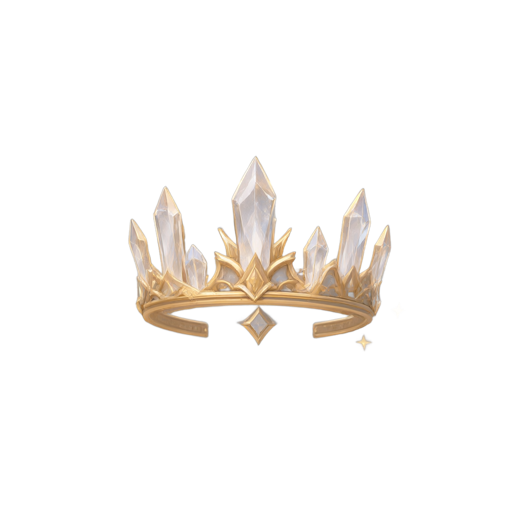
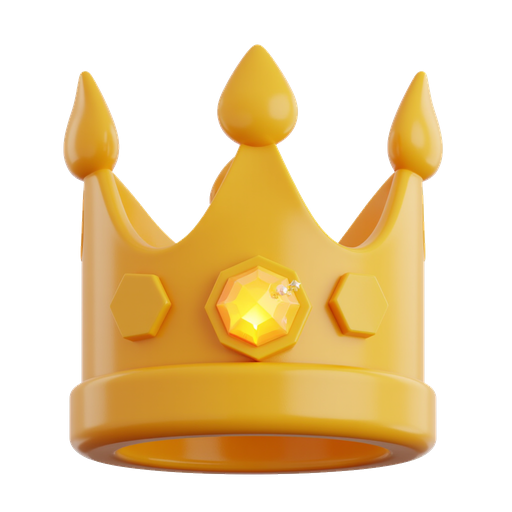
Dragon Island: real necklace/crown fits and PNG face marks
Necklaces (art.js KATMAN.necklace): every necklace was anchored by the
top of its own strap-ends, which are drawn wide (product-shot style,
meant for a human neck/shoulders) - scaled up to the dragon's width,
that put the pendant well down past the throat and onto the belly's
light patch instead of resting at the neck. Re-anchored each one at
the point where the chain narrows into the pendant (measured per
asset) and shrank the scale so only a short drop shows below the jaw,
the way a snug choker would actually sit on this chibi anatomy (no
real exposed neck - the jaw meets the chest almost directly).

Crowns (art.js KATMAN.head): Tiny/Ice/Celestial were regenerated -
- Tiny: was a delicate flat ring shot at a 3/4 angle, essentially
  invisible once placed and scaled on the head. New art is a proper
  small chunky crown in the same style as Bronze/Silver/Golden/King.
- Ice/Celestial: both had a translucent/glowing base band (the models
  rendered them as glass/light rather than metal) that read as a
  floating halo above the head instead of a crown sitting on it, no
  matter how it was positioned. Regenerated both in the same opaque,
  chunky toon style as the crowns that already fit well, using the
  "Sleek 3D Assets 2.0" LoRA. All three go through the 851 Labs
  background remover (clean cutout, no leftover drop-shadow blob - an
  earlier absolute-color-distance mask attempt kept a visible shadow
  patch under the crown) and anchor at their own bottom-centre, same
[…]

diff --git a/games/dragon/art.js b/games/dragon/art.js
@@ -1,6 +1,6 @@
 
-import { palet, FACES } from './data.js?v105';
-import { CONFIG, growthRatio } from './config.js?v105';
+import { palet } from './data.js?v106';
+import { CONFIG, growthRatio } from './config.js?v106';
 
 let uidSayaci = 0;
 
@@ -13,109 +13,6 @@ function ton(hex, miktar) {
     return Math.round(v + (hedef - v) * k);
   };
   return `rgb(${kanal(16)},${kanal(8)},${kanal(0)})`;
-}
-
-export function faceSvg(key) {
-  const f = FACES[key];
-  if (!f || key === 'none' || !f.kind) return '';
-  const c = f.color;
-
-  /* Not: bu koordinatlar eski (3/4 acili) prosedurel ejderha icin
-     ayarlanmisti - onden bakan yeni PNG govdeye gore gozler cok daha
-     ACIKTA (x=~-37/+37, y=-45..-50), kas y=-55..-60, boynuz arasi
-     y=-88..-95, cene/agiz y=-20..-28 (bkz. art.js gecmisindeki DEBUGGRID
-     kalibrasyonu). Asagidaki degerler yanak bandina (gozun disinda/altinda,
-     x=30..46, y=-25..-48) gore yeniden konumlandirildi - eskiden hepsi
-     kas/alin hizasinda VE gozlerin arasinda (x=6..26) kalip yuze hic
-     degmiyordu. */
-
-  if (f.kind === 'scar') {
-    return `
-      <path d="M36 -48 C38 -40 39.5 -32 40 -25" fill="none" stroke="${c}"
-            stroke-width="2.8" stroke-linecap="round" opacity=".95"/>
-      <path d="M33 -42 h7.5 M34.5 -35 h7" stroke="${c}" stroke-width="2"
-            stroke-linecap="round" opacity=".8"/>`;
-  }
-
-  if (f.kind === 'twinScar') {
-    return `
-      <path d="M33 -50 C36 -42 38 -34 39 -27" fill="none" stroke="${c}"
-            stroke-width="2.8" stroke-linecap="round" opacity=".95"/>
-      <path d="M44 -44 C40 -38 36 -33 32 -29" fill="none" stroke="${c}"
-            stroke-width="2.4" stroke-linecap="round" opacity=".85"/>
-      <path d="M-36 -46 C-38 -38 -39.5 -31 -40.5 -25" fill="none" stroke="${c}"
-            stroke-width="2.2" stroke-linecap="round" opacity=".75"/>`;
-  }
-
-  if (f.kind === 'paint') {
-    // Boyanin rengi bazi ejderha tonlarina (orn. varsayilan "ember") cok
-    // yakin dusup govdeyle karisiyordu - koyu bir dis cizgiyle kontrast
-    // ekleniyor, govde rengi ne olursa olsun secilebilsin diye.
-    const yan = (yon) => `
-      <g transform="scale(${yon} 1)">
-        <path d="M29 -36 l7 -3 l-1.5 7 l7 -2 l-2 7" fill="none" stroke="#2a1216"
-              stroke-width="4.2" stroke-linecap="round" stroke-linejoin="round" opacity=".55"/>
-        <path d="M29 -36 l7 -3 l-1.5 7 l7 -2 l-2 7" fill="none" stroke="${c}"
-              stroke-width="2.6" stroke-linecap="round" stroke-linejoin="round" opacity=".95"/>
-      </g>`;
-    return yan(1) + yan(-1);
-  }
-
-  if (f.kind === 'darkMark') {
-    const yan = (yon) => `
-      <g transform="scale(${yon} 1)">
-        <path d="M19 -39 C25 -46 35 -45 39 -36 C35 -29 23 -30 19 -35 Z"
-              fill="${c}" opacity=".5"/>
-        <path d="M33 -26 l-3 7" stroke="${c}" stroke-width="2.4"
-              stroke-linecap="round" opacity=".7"/>
-      </g>`;
-    return yan(1) + yan(-1);
-  }
-
-  if (f.kind === 'flame') {
-    const yan = (yon) => `
-      <g transform="scale(${yon} 1)">
-        <path d="M28 -40 C34 -46 36 -54 33 -62
-                 C39 -56 40 -45 35 -38 C32 -36 29 -37.5 28 -40 Z"
-              fill="${c}" opacity=".92"/>
-        <path d="M30 -42 C33.5 -47 34.5 -51 33 -55 C36.5 -50 36 -44 33 -40 Z"
-              fill="#ffe066" opacity=".8"/>
-      </g>`;
-    return yan(1) + yan(-1);
-  }
-
-  if (f.kind === 'rune') {
-    return `
-      <circle cx="0" cy="-78" r="10" fill="${c}" opacity=".22"/>
-      <path d="M0 -85 v13 M-5 -81 h10 M0 -72 l4 6 h-8 z" fill="none" stroke="${c}"
-            stroke-width="2.4" stroke-linecap="round" stroke-linejoin="round"/>
-      <path d="M-25 -58 l4 4 M25 -58 l-4 4" stroke="${c}" stroke-width="2"
-            stroke-linecap="round" opacity=".7"/>`;
-  }
-
-  if (f.kind === 'demon') {
-    const yan = (yon) => `
-      <g transform="scale(${yon} 1)">
-        <path d="M24 -72 L40 -75 L37 -67 L41 -65 L26 -59 Z" fill="${c}" opacity=".9"/>
-        <path d="M27 -53 L38 -50 L32 -44 Z" fill="${c}" opacity=".75"/>
-        <path d="M21 -42 L28 -40 L24 -36 Z" fill="${c}" opacity=".6"/>
-      </g>`;
-    return `${yan(1)}${yan(-1)}
-      <path d="M0 -86 L4 -77 L0 -73 L-4 -77 Z" fill="${c}" opacity=".9"/>`;
-  }
-
-  return `
-    <circle cx="0" cy="-79" r="12" fill="${c}" opacity=".22"/>
-    <path d="M0 -89 C2 -81 4 -79 12 -77 C4 -75 2 -73 0 -65
-             C-2 -73 -4 -75 -12 -77 C-4 -79 -2 -81 0 -89 Z" fill="${c}"/>
-    <path d="M-29 -69 C-23 -75 -12 -74 -8 -67" fill="none" stroke="${c}"
-          stroke-width="2.4" stroke-linecap="round" opacity=".9"/>
-    <path d="M29 -69 C23 -75 12 -74 8 -67" fill="none" stroke="${c}"
-          stroke-width="2.4" stroke-linecap="round" opacity=".9"/>
-    <path d="M-21 -54 l-3 8 M21 -54 l3 8" stroke="${c}" stroke-width="2.2"
-          stroke-linecap="round" opacity=".8"/>
-    <circle cx="-24" cy="-45" r="2" fill="${c}"/>
-    <circle cx="24" cy="-45" r="2" fill="${c}"/>`;
 }
 
 function yumurtaSvg(level, pal) {
@@ -163,6 +60,13 @@ const GORSEL = {
   tepe: { x: 511, y: 230 },
   yuz: { x: 511, y: 455 },
   boyun: { x: 511, y: 505 },
+
+  /* Yuz ogeleri (kesikler, boya, ruhani isaretler) artik gercek Scenario
+     PNG'leri - alnin ortasina tek basina oturanlar icin "alin", yanaga
+     (goz disi/alti) simetrik oturanlar icin "yanakSag"/"yanakSol". */
+  alin: { x: 511, y: 300 },
+  yanakSag: { x: 655, y: 405 },
+  yanakSol: { x: 367, y: 405 },
 };
 
 const MERKEZ = 92;
@@ -227,8 +131,8 @@ const KATMAN = {
   head: {
     tiny: {
       yol: 'assets/crown-tiny.png',
-      kare: 1024, x0: 200, y0: 384, x1: 824, y1: 660,
-      kok: { x: 512, y: 660 }, en: 0.42,
+      kare: 1024, x0: 117, y0: 137, x1: 904, y1: 879,
+      kok: { x: 510, y: 879 }, en: 0.40,
     },
     bronze: {
       yol: 'assets/crown-bronze.png',
@@ -252,8 +156,8 @@ const KATMAN = {
     },
     ice: {
       yol: 'assets/crown-ice.png',
-      kare: 1024, x0: 238, y0: 298, x1: 796, y1: 682,
-      kok: { x: 517, y: 682 }, en: 0.48,
+      kare: 1024, x0: 159, y0: 94, x1: 865, y1: 928,
+      kok: { x: 512, y: 928 }, en: 0.48,
     },
     king: {
       yol: 'assets/crown-king.png',
@@ -262,8 +166,8 @@ const KATMAN = {
     },
     celestial: {
       yol: 'assets/crown-celestial.png',
-      kare: 1024, x0: 256, y0: 312, x1: 780, y1: 700,
-      kok: { x: 518, y: 690 }, en: 0.50,
+      kare: 1024, x0: 127, y0: 89, x1: 885, y1: 948,
+      kok: { x: 506, y: 948 }, en: 0.50,
     },
   },
 
@@ -271,32 +175,82 @@ const KATMAN = {
     fang: {
       yol: 'assets/necklace-fang.png',
       kare: 1024, x0: 205, y0: 131, x1: 821, y1: 904,
-      kok: { x: 513, y: 131 }, en: 0.40,
+      kok: { x: 512, y: 380 }, en: 0.22,
     },
     bronze: {
       yol: 'assets/necklace-bronze.png',
       kare: 1024, x0: 226, y0: 180, x1: 802, y1: 835,
-      kok: { x: 514, y: 180 }, en: 0.40,
+      kok: { x: 514, y: 391 }, en: 0.22,
     },
     sapphire: {
       yol: 'assets/necklace-sapphire.png',
       kare: 1024, x0: 181, y0: 65, x1: 843, y1: 796,
-      kok: { x: 512, y: 65 }, en: 0.42,
+      kok: { x: 512, y: 293 }, en: 0.231,
     },
     flame: {
       yol: 'assets/necklace-flame.png',
       kare: 1024, x0: 212, y0: 164, x1: 804, y1: 880,
-      kok: { x: 508, y: 164 }, en: 0.42,
+      kok: { x: 508, y: 359 }, en: 0.231,
     },
     royal: {
       yol: 'assets/necklace-royal.png',
       kare: 1024, x0: 111, y0: 181, x1: 919, y1: 1022,
-      kok: { x: 515, y: 181 }, en: 0.46,
+      kok: { x: 515, y: 354 }, en: 0.253,
     },
     celestial: {
       yol: 'assets/necklace-celestial.png',
       kare: 1024, x0: 91, y0: 63, x1: 945, y1: 878,
-      kok: { x: 518, y: 63 }, en: 0.46,
+      kok: { x: 518, y: 311 }, en: 0.253,
+    },
+  },
+
+  /* Yuz ogeleri: eskiden govde/kafa merkezli olmayan, elle yazilmis
+     vektor koordinatlarla ciziliyordu ve onden bakan kafaya hicbir
+     zaman gercekten oturmuyordu (bkz. eski faceSvg()). Artik digerleri
+     gibi gercek Scenario PNG'leri, ayni kok/en/anchor sistemiyle
+     yerlestiriliyor. `yer` hangi GORSEL ceapasina (alin/tepe/yanak)
+     oturacagini, `cift` true ise oge iki yanaga simetrik (ayna) iki kez
+     cizilir (tek govde noktasi degil). */
+  face: {
+    scar: {
+      yol: 'assets/face-scar.png',
+      kare: 1024, x0: 287, y0: 248, x1: 745, y1: 768,
+      kok: { x: 516, y: 508 }, en: 0.22, yer: 'yanak',
+    },
+    twinScar: {
+      yol: 'assets/face-twinscar.png',
+      kare: 1024, x0: 257, y0: 256, x1: 767, y1: 775,
+      kok: { x: 512, y: 515 }, en: 0.20, yer: 'yanak', cift: true,
+    },
+    warPaint: {
+      yol: 'assets/face-warpaint.png',
+      kare: 1024, x0: 195, y0: 290, x1: 821, y1: 706,
+      kok: { x: 508, y: 498 }, en: 0.26, yer: 'yanak', cift: true,
+    },
+    darkMark: {
+      yol: 'assets/face-darkmark.png',
+      kare: 1024, x0: 210, y0: 71, x1: 817, y1: 960,
+      kok: { x: 513, y: 515 }, en: 0.22, yer: 'alin',
+    },
+    flameFace: {
+      yol: 'assets/face-flame.png',
+      kare: 1024, x0: 286, y0: 252, x1: 750, y1: 749,
+      kok: { x: 518, y: 500 }, en: 0.20, yer: 'alin',
+    },
+    runeFace: {
+      yol: 'assets/face-rune.png',
+      kare: 1024, x0: 254, y0: 156, x1: 769, y1: 887,
+      kok: { x: 511, y: 521 }, en: 0.20, yer: 'alin',
+    },
+    demon: {
+      yol: 'assets/face-demon.png',
+      kare: 1024, x0: 208, y0: 268, x1: 815, y1: 747,
+      kok: { x: 511, y: 507 }, en: 0.32, yer: 'tepe',
+    },
+    kingMark: {
+      yol: 'assets/face-kingmark.png',
+      kare: 1024, x0: 146, y0: 124, x1: 879, y1: 880,
+      kok: { x: 512, y: 502 }, en: 0.22, yer: 'alin',
     },
   },
 };
@@ -314,9 +268,11 @@ export function dragonAssetUrls(look) {
   const kanat = katmanSec('wings', look?.wings);
   const tac = katmanSec('head', look?.head);
   const kolye = katmanSec('necklace', look?.necklace);
+  const yuz = katmanSec('face', look?.face);
   if (kanat) urls.push(kanat.yol);
   if (tac) urls.push(tac.yol);
   if (kolye) urls.push(kolye.yol);
+  if (yuz) urls.push(yuz.yol);
   return urls;
 }
 
@@ -340,12 +296,19 @@ function katmanCiz(k, ax, ay, gw, renkId, zorlaAyna = false) {
                  preserveAspectRatio="xMidYMid meet"${cevir}${suz}/>`;
 }
 
-/* faceSvg() vektor izlerini uretiyor ama kendi yerel koordinat sisteminde
-   (govde/kafa merkezli degil). Onden bakan yeni kafaya oturtmak icin
-   yuz noktasina tasiyip govde olcegine gore kucultuyoruz. */
-function yuzCiz(faceKey, fx, fy, gw) {
-  const olcek = gw / 185;
-  return `<g transform="translate(${fx.toFixed(1)} ${fy.toFixed(1)}) scale(${olcek.toFixed(3)})">${faceSvg(faceKey)}</g>`;
+/* Yuz ogeleri KATMAN.face'teki `yer` alanina gore tek (alin/tepe) ya da
+   iki yanaga simetrik-aynali (cift: true) cizilir - bkz. KATMAN.face
+   tanimlarindaki not. */
+function yuzKatmanCiz(k, anchors, gw, renkId) {
+  if (!k) return '';
+  if (k.cift) {
+    return katmanCiz(k, anchors.yanakSag[0], anchors.yanakSag[1], gw, renkId)
+      + katmanCiz(k, anchors.yanakSol[0], anchors.yanakSol[1], gw, renkId, true);
+  }
+  const nokta = k.yer === 'yanak' ? anchors.yanakSag
+    : k.yer === 'tepe' ? anchors.tepe
+    : anchors.alin;
+  return katmanCiz(k, nokta[0], nokta[1], gw, renkId);
 }
 
 function gorselEjderha(level, mood, look) {
@@ -386,11 +349,17 @@ function gorselEjderha(level, mood, look) {
   const [omuzSolX, omuzSolY] = nokta(GORSEL.omuzSol);
   const [omuzSagX, omuzSagY] = nokta(GORSEL.omuzSag);
   const [tepeX, tepeY] = nokta(GORSEL.tepe);
-  const [yuzX, yuzY] = nokta(GORSEL.yuz);
   const [boyunX, boyunY] = nokta(GORSEL.boyun);
+  const yuzAnchors = {
+    alin: nokta(GORSEL.alin),
+    yanakSag: nokta(GORSEL.yanakSag),
+    yanakSol: nokta(GORSEL.yanakSol),
+    tepe: [tepeX, tepeY],
+  };
   const kanat = katmanSec('wings', look?.wings);
   const tac = katmanSec('head', look?.head);
   const kolye = katmanSec('necklace', look?.necklace);
+  const yuz = katmanSec('face', look?.face);
 
   return `
     <svg viewBox="0 0 200 200" aria-hidden="true">
@@ -402,7 +371,7 @@ function gorselEjderha(level, mood, look) {
                width="${olcek.toFixed(1)}" height="${olcek.toFixed(1)}"
                preserveAspectRatio="xMidYMid meet"
                ${renkId ? `filter="url(#${renkId})"` : ''}/>
-        ${look?.face && look.face !== 'none' ? yuzCiz(look.face, yuzX, yuzY, hedefGen) : ''}
+        ${yuzKatmanCiz(yuz, yuzAnchors, hedefGen, renkId)}
         ${kolye ? katmanCiz(kolye, boyunX, boyunY, hedefGen, renkId) : ''}
         ${tac ? katmanCiz(tac, tepeX, tepeY, hedefGen, renkId) : ''}
       </g>

diff --git a/games/dragon/dragon.js b/games/dragon/dragon.js
@@ -1,15 +1,15 @@
 
-import { initTelegram, haptic, showBackButton, backToHubOnResume } from '../../js/tg.js?v105';
-import { registerTexts, registerItemTexts, t, applyStaticTexts, locale, mhHtml } from '../../js/i18n-hook.js?v105';
+import { initTelegram, haptic, showBackButton, backToHubOnResume } from '../../js/tg.js?v106';
+import { registerTexts, registerItemTexts, t, applyStaticTexts, locale, mhHtml } from '../../js/i18n-hook.js?v106';
 
-import { CONFIG, feedCost, xpNeeded, rewardForLevel } from './config.js?v105';
-import { SLOTS, KATALOG, AURAS, ISLANDS, RARITIES, ada as adaTemasi } from './data.js?v105';
-import { bakiyeOku, harca } from './economy.js?v105';
+import { CONFIG, feedCost, xpNeeded, rewardForLevel } from './config.js?v106';
+import { SLOTS, KATALOG, AURAS, ISLANDS, RARITIES, ada as adaTemasi } from './data.js?v106';
+import { bakiyeOku, harca } from './economy.js?v106';
 import { oyuncuyuYukle, oyuncuyuKaydet, aktifEjderha, sahipMi, dolabaEkle,
-         adaSahipMi, adaEkle } from './model.js?v105';
-import { dragonSvg, faceSvg, GOVDE_MERKEZ_ORANI, dragonAssetUrls } from './art.js?v105';
-import { ITEM_TEXTS } from './i18n-items.js?v105';
-import { createIsland } from './island.js?v105';
+         adaSahipMi, adaEkle } from './model.js?v106';
+import { dragonSvg, GOVDE_MERKEZ_ORANI, dragonAssetUrls } from './art.js?v106';
+import { ITEM_TEXTS } from './i18n-items.js?v106';
+import { createIsland } from './island.js?v106';
 
 const GAME_ID = 'dragon';
 

diff --git a/games/dragon/index.html b/games/dragon/index.html
@@ -12,9 +12,9 @@
       if (sessionStorage.getItem('mh_hub_open') !== '1') location.replace('../../index.html');
     } catch (e) {}
   </script>
-  <link rel="stylesheet" href="../../css/style.css?v105">
-  <link rel="stylesheet" href="../../css/game.css?v105">
-  <link rel="stylesheet" href="dragon.css?v105">
+  <link rel="stylesheet" href="../../css/style.css?v106">
+  <link rel="stylesheet" href="../../css/game.css?v106">
+  <link rel="stylesheet" href="dragon.css?v106">
 </head>
 <body class="game" data-i18n-title="title">
   <div class="boot-loader" id="boot-loader">
@@ -127,6 +127,6 @@
 
   </div>
 
-  <script type="module" src="dragon.js?v105"></script>
+  <script type="module" src="dragon.js?v106"></script>
 </body>
 </html>

diff --git a/games/dragon/model.js b/games/dragon/model.js
@@ -1,6 +1,6 @@
 
-import { loadState, saveState } from '../../js/store.js?v105';
-import { SLOTS, VARSAYILAN_GORUNUM } from './data.js?v105';
+import { loadState, saveState } from '../../js/store.js?v106';
+import { SLOTS, VARSAYILAN_GORUNUM } from './data.js?v106';
 
 const OYUN_ID = 'dragon';
 const SURUM = 2;

diff --git a/games/dragon/economy.js b/games/dragon/economy.js
@@ -1,5 +1,5 @@
 
-import { getPoints, addPoints, spendPoints } from '../../js/store.js?v105';
+import { getPoints, addPoints, spendPoints } from '../../js/store.js?v106';
 
 export const KAYNAKLAR = {
   points: {

diff --git a/games/dragon/island.js b/games/dragon/island.js
@@ -1,5 +1,5 @@
 
-import { ada as adaTemasi, DRAGON_ANCHOR } from './data.js?v105';
+import { ada as adaTemasi, DRAGON_ANCHOR } from './data.js?v106';
 
 const KARE_MS = 33;
 
